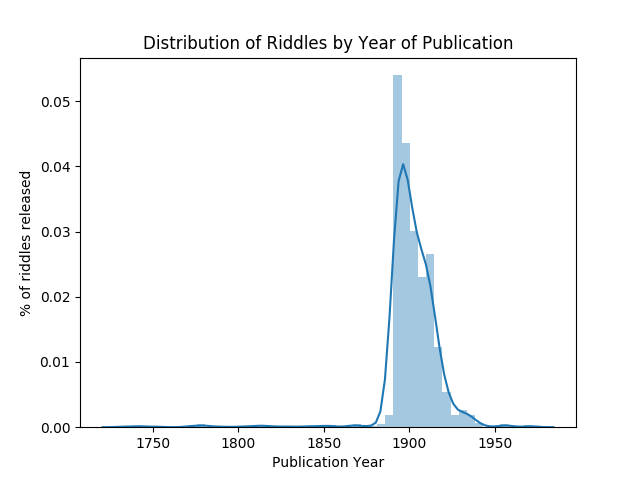
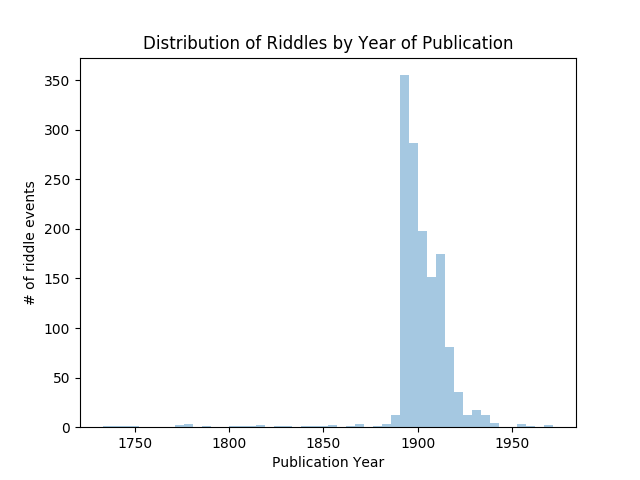
update images

diff --git a/scripts/mapping/generate_json.py b/scripts/mapping/generate_json.py
@@ -13,6 +13,26 @@ meta = pd.read_csv("/Users/ndrezn/OneDrive - McGill University/Github/riddles-dh
 meta = meta.dropna(subset=['Coordinates', 'Newspaper Issue Date'])
 
 
+df= pd.DataFrame() 
+
+df['Date'] = ['1-2-99', '1-3-99', '1-7-98']
+df['Location'] = ['Kansas', 'Utah', 'Kentucky']
+df['People'] = [['Jeff', 'Jesse'], ['James'], ['Kris']]
+
+print(df)
+
+def at_party(row):
+	if row['Date'] == '1-2-99' and row['Location'] == 'Kansas':
+		return True
+	else:
+		return False
+
+party = df.apply(lambda row: at_party(row), axis=1)
+
+print(df)
+
+exit()
+
 meta = meta.sort_values(by=['Archive'])
 
 def type_to_int(string):
@@ -91,7 +111,7 @@ for i,row in meta.iterrows():
 
 sns.distplot(dts, kde=False)
 plt.xlabel('Day of the Year')
-plt.ylabel('% of riddles released')
+plt.ylabel('# of riddle events')
 plt.title("Distribution of Riddles by Day of Publication")
 plt.show()
 

diff --git a/scripts/other/get_distro_by_year.py b/scripts/other/get_distro_by_year.py
@@ -48,10 +48,10 @@ print(n/o)
 print(m/o)
 print(n/m)
 
+yrs = df['Year'].tolist()
 
-
-sns.distplot(df['Year'], kde=True, )
+sns.distplot(yrs, kde=False )
 plt.xlabel('Publication Year')
-plt.ylabel('% of riddles released')
+plt.ylabel('# of riddle events')
 plt.title("Distribution of Riddles by Year of Publication")
 plt.show()

diff --git a/scripts/mapping/generate_csv.py b/scripts/mapping/generate_csv.py
@@ -29,8 +29,7 @@ def guess_date(string):
             	date -= pd.DateOffset(years=100)
             return date.strftime("%B %d, %Y")
         except ValueError:
-            continue
-    return np.nan
+            return np.nan
 
 
 meta=meta.dropna(axis=1,how='all')
